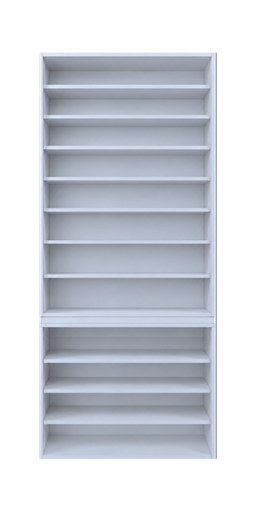
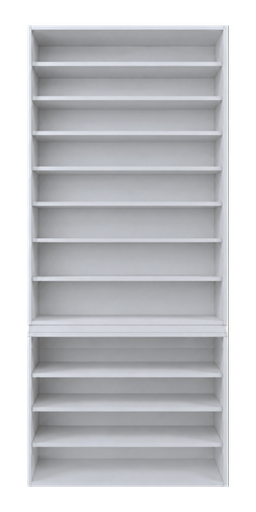
fix: 도어분절 현관장 BoxModule 라우팅 — shelf-split은 폴백으로
- BoxModule single-shelf-/dual-shelf- 매치 조건에 !shelf-split 가드 추가
- 그 결과 single-shelf-split/dual-shelf-split은 SingleType2/DualType2가 아닌 BaseFurnitureShell 폴백으로 라우팅됨
- 폴백 분기에서 sideNotches + ㄱ자 목찬넬 mesh가 실제로 실행되어 표시됨

diff --git a/src/editor/shared/viewer3d/components/modules/BoxModule.tsx b/src/editor/shared/viewer3d/components/modules/BoxModule.tsx
@@ -686,7 +686,7 @@ const BoxModule: React.FC<BoxModuleProps> = ({
 
   // 듀얼 현관장 H(dual-entryway-h-)는 BaseFurnitureShell 폴백 경로에서 처리
   // (속서랍/서랍받침대/속장 ㄷ자 프레임 hardcoded 코드가 BaseFurnitureShell에 있음)
-  if (moduleData.id.includes('dual-2hanging') || moduleData.id.includes('dual-shelf-')) {
+  if ((moduleData.id.includes('dual-2hanging') || moduleData.id.includes('dual-shelf-')) && !moduleData.id.includes('shelf-split')) {
     return (
       <>
         {/* 모든 타입에서 간접조명 렌더링 */}
@@ -948,7 +948,7 @@ const BoxModule: React.FC<BoxModuleProps> = ({
   if (moduleData.id.includes('-shelf-') && !moduleData.id.includes('-4drawer-shelf-') && !moduleData.id.includes('-2drawer-shelf-')) {
     console.log('🟪 BoxModule 선반장 진입:', { id: moduleData.id, hasBase, individualFloatHeight });
   }
-  if (moduleData.id.includes('single-2hanging') || moduleData.id.includes('single-shelf-')) {
+  if ((moduleData.id.includes('single-2hanging') || moduleData.id.includes('single-shelf-')) && !moduleData.id.includes('shelf-split')) {
     return (
       <>
         {/* 모든 타입에서 간접조명 렌더링 */}